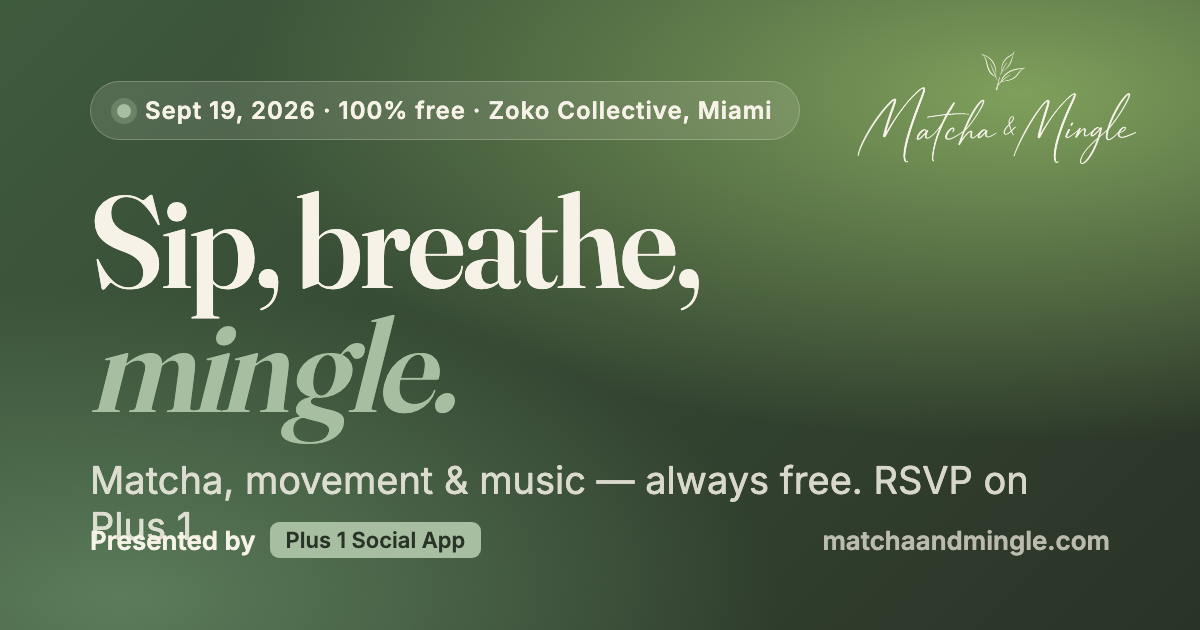
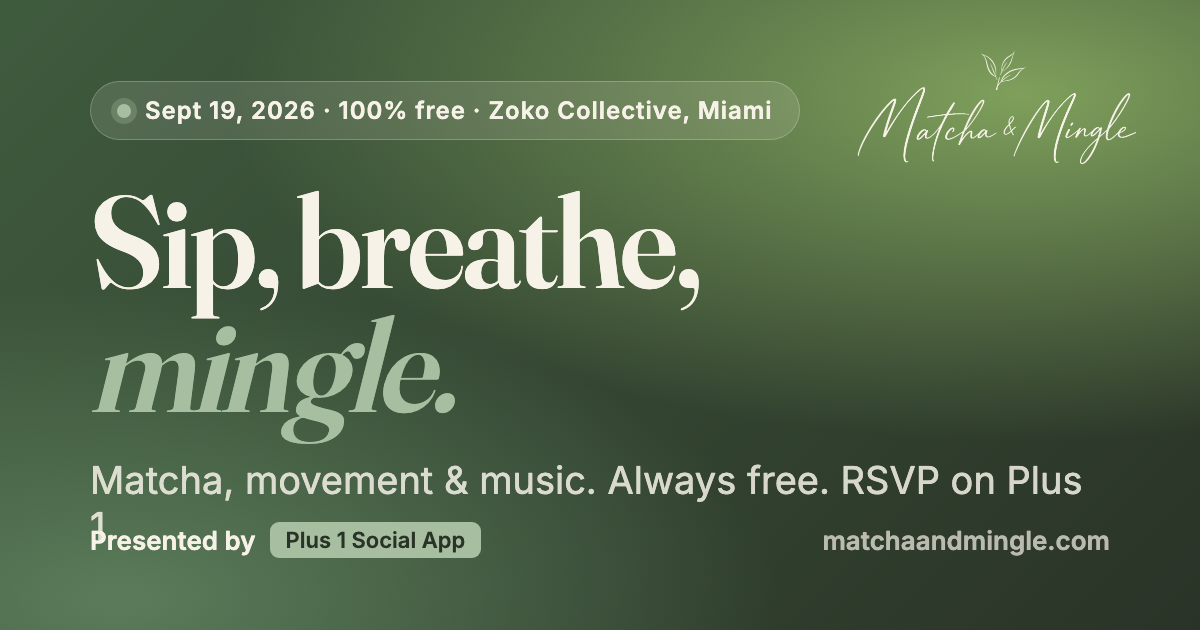
Remove all em dashes site-wide

Changed region(s): [[0.4933, 0.7238, 0.925, 0.8143], [0.0617, 0.8143, 0.185, 0.8746]]

diff --git a/index.html b/index.html
@@ -4,7 +4,7 @@
 <meta charset="UTF-8" />
 <meta name="viewport" content="width=device-width, initial-scale=1.0" />
 <title>Matcha &amp; Mingle · Wellness, Reimagined</title>
-<meta name="description" content="Matcha & Mingle is a modern wellness event series: wellness activations, art exhibits, healthy tastings, and live DJ sets. Presented by the Plus 1 Social App. 100% free · Sept 19, 2026 · Miami · RSVP on Plus 1. Always 100% free — RSVP on the Plus 1 app or web." />
+<meta name="description" content="Matcha & Mingle is a modern wellness event series: wellness activations, art exhibits, healthy tastings, and live DJ sets. Presented by the Plus 1 Social App. 100% free · Sept 19, 2026 · Miami · RSVP on Plus 1. Always 100% free. RSVP on the Plus 1 app or web." />
 <link rel="canonical" href="https://matchaandmingle.com/" />
 
 <!-- Open Graph / social -->
@@ -326,7 +326,7 @@
   <div class="wrap">
     <div class="hero-badge"><span class="dot"></span> Round two · September 19, 2026 · 100% free</div>
     <h1>Sip, breathe,<br><em>mingle.</em></h1>
-    <p class="lede">We're back, Miami. Join us September 19 at Zoko Collective for matcha, movement, and good company — chill vibes, great workouts, and the easiest way to meet new people.</p>
+    <p class="lede">We're back, Miami. Join us September 19 at Zoko Collective for matcha, movement, and good company, chill vibes, great workouts, and the easiest way to meet new people.</p>
     <div class="hero-cta"><a href="https://joinplus1.app.link/MBQhfir8A3b" class="btn big hero-download" target="_blank" rel="noopener">📲 RSVP on Plus 1</a></div>
     <div class="hero-sublinks">
       <a href="#gallery" class="hero-link">📸 See the recap</a>
@@ -343,8 +343,8 @@
     <div class="cause-card reveal">
       <span class="eyebrow">Always free · Always for good</span>
       <h2>Free to attend. For a cause that matters.</h2>
-      <p>Every Matcha &amp; Mingle event is 100% free — we don't sell tickets. Just RSVP on the Plus 1 app or web to reserve your spot. Starting this October, <strong>100% of net proceeds from our sponsors go to organizations that fight human trafficking and help protect and support survivors</strong>, and attendees can donate directly to the cause at the event.</p>
-      <p class="cause-sub">Come move, sip, and connect — and be part of something bigger.</p>
+      <p>Every Matcha &amp; Mingle event is 100% free. We don't sell tickets. Just RSVP on the Plus 1 app or web to reserve your spot. Starting this October, <strong>100% of net proceeds from our sponsors go to organizations that fight human trafficking and help protect and support survivors</strong>, and attendees can donate directly to the cause at the event.</p>
+      <p class="cause-sub">Come move, sip, and connect, and be part of something bigger.</p>
     </div>
   </div>
 </section>
@@ -354,7 +354,7 @@
     <div class="thankyou-card reveal">
       <span class="eyebrow">Thank you, Miami</span>
       <h2>Our first Matcha &amp; Mingle was one for the books.</h2>
-      <p>On August 1 you showed up, sipped, stretched, and mingled with us at Arena Wynwood — and it was everything we hoped for and more. Huge thank you to everyone who came out, and to our incredible partners who made it happen. This is just the beginning: round two lands September 19. 🍵</p>
+      <p>On August 1 you showed up, sipped, stretched, and mingled with us at Arena Wynwood, and it was everything we hoped for and more. Huge thank you to everyone who came out, and to our incredible partners who made it happen. This is just the beginning: round two lands September 19. 🍵</p>
     </div>
   </div>
 </section>
@@ -434,7 +434,7 @@
       <div class="card reveal">
         <div class="ico">🧘</div>
         <h3>Movement Classes</h3>
-        <p>Ease in with a warm-up &amp; stretch, fire up with HIIT, and flow through Pilates — all included.</p>
+        <p>Ease in with a warm-up &amp; stretch, fire up with HIIT, and flow through Pilates. All included.</p>
       </div>
       <div class="card reveal">
         <div class="ico">🍵</div>
@@ -506,12 +506,12 @@
       <a class="card reveal" href="https://www.clubstudiofitness.com/Pages/freepass.aspx?CorporateId=8ff60a45-bafa-4045-b7c4-cbb1fb473ebd" target="_blank" rel="noopener">
         <div class="logo-tile" style="background:#ffffff;border:1px solid var(--cream-deep)"><img src="logo-club.png" alt="Club Studio" /></div>
         <p class="partner-name">Club Studio</p>
-        <p>Rebound — a trampoline cardio class from 1:30–2pm. 20 trampolines, first come, first served.</p>
+        <p>Rebound, a trampoline cardio class from 1:30–2pm. 20 trampolines, first come, first served.</p>
       </a>
       <a class="card reveal" href="https://link.me" target="_blank" rel="noopener">
         <div class="logo-tile" style="background:#141414"><img src="logo-linkme.png" alt="Link.me" /></div>
         <p class="partner-name">Link.me</p>
-        <p>Share your socials and connect instantly — the easiest way to mingle.</p>
+        <p>Share your socials and connect instantly, the easiest way to mingle.</p>
       </a>
     </div>
   </div>
@@ -536,7 +536,7 @@
         <div class="price" style="font-size:3.4rem">Sept 19</div>
         <p class="price-sub">11am–2pm · Zoko Collective, Miami</p>
         <a href="https://joinplus1.app.link/MBQhfir8A3b" class="btn big ticket-btn" target="_blank" rel="noopener">RSVP on Plus 1</a>
-        <p class="price-foot">Free to attend — RSVP on the Plus 1 app or web</p>
+        <p class="price-foot">Free to attend. RSVP on the Plus 1 app or web</p>
       </div>
     </div>
   </div>
@@ -548,7 +548,7 @@
       <div class="perk-text">
         <span class="eyebrow">How to get in</span>
         <h2>RSVP on Plus 1.</h2>
-        <p>We don't sell tickets — reserve your free spot on the Plus 1 app or web. That's your access to the event:</p>
+        <p>We don't sell tickets. Reserve your free spot on the Plus 1 app or web. That's your access to the event:</p>
         <ul class="perks-list">
           <li>📲 Free RSVP for entry</li>
           <li>⏰ Early access to future drops</li>
@@ -596,9 +596,9 @@
     <div class="signup-card reveal">
       <span class="eyebrow">How to get in</span>
       <h2>RSVP on Plus 1.</h2>
-      <p>We don't sell tickets — RSVP on the Plus 1 app or web to reserve your free spot for September 19. See you there.</p>
+      <p>We don't sell tickets. RSVP on the Plus 1 app or web to reserve your free spot for September 19. See you there.</p>
       <a href="https://joinplus1.app.link/MBQhfir8A3b" class="btn big" target="_blank" rel="noopener" style="display:inline-block;padding:1.15rem 2.6rem;font-size:1.08rem">📲 RSVP on Plus 1</a>
-      <p class="form-note">No tickets sold — RSVP on the Plus 1 app or web.</p>
+      <p class="form-note">No tickets sold. RSVP on the Plus 1 app or web.</p>
     </div>
   </div>
 </section>
